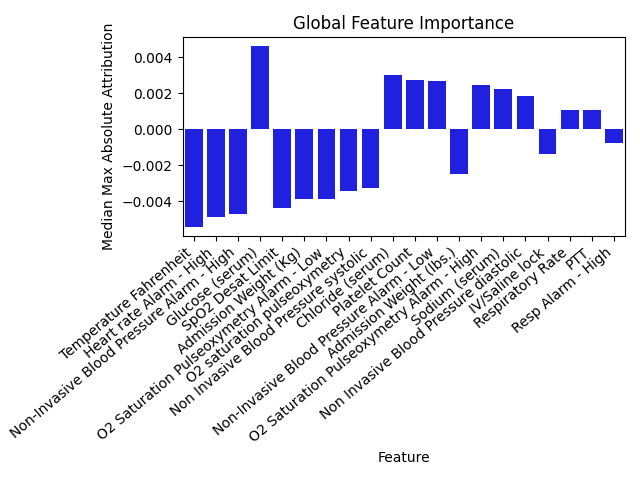
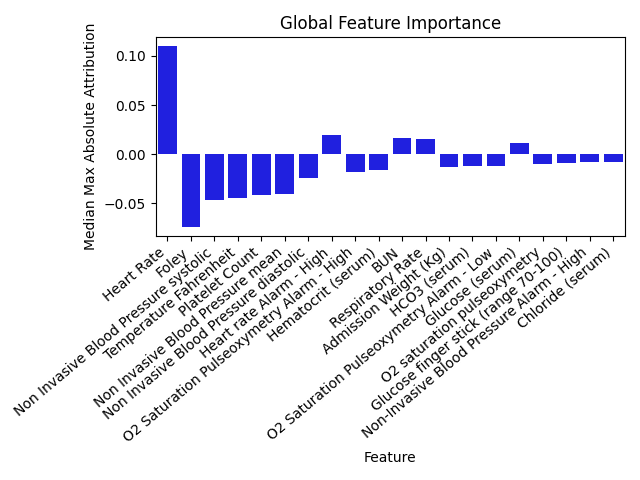
Update single fold trainer and captum

diff --git a/src/tabsep/modeling/transformerSingle.py b/src/tabsep/modeling/transformerSingle.py
@@ -18,10 +18,10 @@ if __name__ == "__main__":
     start_time_str = datetime.datetime.now().strftime("%Y-%m-%d_%H:%M:%S")
 
     print("[*] Loading data to memory")
-    cut_sample = pd.read_csv("cache/sample_cuts.csv")
-    cut_sample = cut_sample.sample(frac=1, random_state=42).reset_index(drop=True)
+    sample = pd.read_csv("cache/ihm_sample.csv")
+    sample = sample.sample(frac=1, random_state=42).reset_index(drop=True)
 
-    ds = FileBasedDataset(processed_mimic_path="./mimicts", cut_sample=cut_sample)
+    ds = FileBasedDataset("./mimicts", sample)
     dl = torch.utils.data.DataLoader(
         ds, batch_size=256, num_workers=CORES_AVAILABLE, pin_memory=True,
     )

diff --git a/src/tabsep/modeling/tstCaptum.py b/src/tabsep/modeling/tstCaptum.py
@@ -41,7 +41,7 @@ class TensorBasedDataset(torch.utils.data.Dataset):
 
 
 if __name__ == "__main__":
-    model_id = "singleTst_2022-07-09_08:26:13"
+    model_id = "singleTst_2022-07-21_11:58:07"
 
     if torch.cuda.is_available():
         print("Detected GPU, using cuda")
@@ -54,7 +54,7 @@ if __name__ == "__main__":
         feat_dim=621,
         d_model=128,
         dim_feedforward=256,
-        max_len=120,
+        max_len=121,  # TODO: do better
         n_heads=16,
         num_classes=1,
         num_layers=3,
